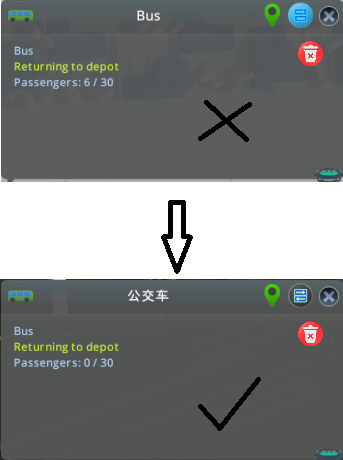
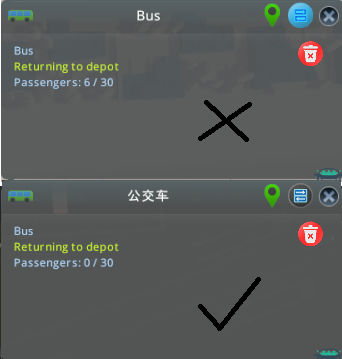
Hotfix for trailingVehicle passenger calculate

diff --git a/TransportVehicleReturnPatch.cs b/TransportVehicleReturnPatch.cs
@@ -45,32 +45,5 @@ namespace TransportVehicleReturnPatch
         {
             debugMode = index;
         }
-
-        public static int GetInsidePassengerCount(ref Vehicle data)
-        {
-            CitizenManager instance = Singleton<CitizenManager>.instance;
-            uint num = data.m_citizenUnits;
-            int num2 = 0;
-            int passengerCount = 0;
-            while (num != 0u)
-            {
-                uint nextUnit = instance.m_units.m_buffer[(int)((UIntPtr)num)].m_nextUnit;
-                for (int i = 0; i < 5; i++)
-                {
-                    uint citizen = instance.m_units.m_buffer[(int)((UIntPtr)num)].GetCitizen(i);
-                    if (citizen != 0u)
-                    {
-                        passengerCount++;
-                    }
-                }
-                num = nextUnit;
-                if (++num2 > 524288)
-                {
-                    CODebugBase<LogChannel>.Error(LogChannel.Core, "Invalid list detected!\n" + Environment.StackTrace);
-                    break;
-                }
-            }
-            return passengerCount;
-        }
     }
 }

diff --git a/Patch/BusAILoadPassengersPatch.cs b/Patch/BusAILoadPassengersPatch.cs
@@ -17,7 +17,7 @@ namespace TransportVehicleReturnPatch.Patch
 			{
 				if (TransportVehicleReturnPatch.rejectPassengerVehicleID[data.m_transportLine] == vehicleID)
 				{
-					int passengerCount = TransportVehicleReturnPatch.GetInsidePassengerCount(ref data);
+					__instance.GetBufferStatus(vehicleID, ref Singleton<VehicleManager>.instance.m_vehicles.m_buffer[vehicleID], out string _, out int passengerCount, out int _);
 					if (passengerCount == 0)
 					{
 						TransportVehicleReturnPatch.rejectPassengerVehicleID[data.m_transportLine] = 0;

diff --git a/Patch/CableCarAILoadPassengersPatch.cs b/Patch/CableCarAILoadPassengersPatch.cs
@@ -18,7 +18,7 @@ namespace TransportVehicleReturnPatch.Patch
 			{
 				if (TransportVehicleReturnPatch.rejectPassengerVehicleID[data.m_transportLine] == vehicleID)
 				{
-					int passengerCount = TransportVehicleReturnPatch.GetInsidePassengerCount(ref data);
+					__instance.GetBufferStatus(vehicleID, ref Singleton<VehicleManager>.instance.m_vehicles.m_buffer[vehicleID], out string _, out int passengerCount, out int _);
 					if (passengerCount == 0)
 					{
 						TransportVehicleReturnPatch.rejectPassengerVehicleID[data.m_transportLine] = 0;

diff --git a/Patch/PassengerBlimpAILoadPassengersPatch.cs b/Patch/PassengerBlimpAILoadPassengersPatch.cs
@@ -18,7 +18,7 @@ namespace TransportVehicleReturnPatch.Patch
 			{
 				if (TransportVehicleReturnPatch.rejectPassengerVehicleID[data.m_transportLine] == vehicleID)
 				{
-					int passengerCount = TransportVehicleReturnPatch.GetInsidePassengerCount(ref data);
+					__instance.GetBufferStatus(vehicleID, ref Singleton<VehicleManager>.instance.m_vehicles.m_buffer[vehicleID], out string _, out int passengerCount, out int _);
 					if (passengerCount == 0)
 					{
 						TransportVehicleReturnPatch.rejectPassengerVehicleID[data.m_transportLine] = 0;

diff --git a/Patch/PassengerFerryAILoadPassengersPatch.cs b/Patch/PassengerFerryAILoadPassengersPatch.cs
@@ -18,7 +18,7 @@ namespace TransportVehicleReturnPatch.Patch
 			{
 				if (TransportVehicleReturnPatch.rejectPassengerVehicleID[data.m_transportLine] == vehicleID)
 				{
-					int passengerCount = TransportVehicleReturnPatch.GetInsidePassengerCount(ref data);
+					__instance.GetBufferStatus(vehicleID, ref Singleton<VehicleManager>.instance.m_vehicles.m_buffer[vehicleID], out string _, out int passengerCount, out int _);
 					if (passengerCount == 0)
 					{
 						TransportVehicleReturnPatch.rejectPassengerVehicleID[data.m_transportLine] = 0;

diff --git a/Patch/PassengerHelicopterAILoadPassengersPatch.cs b/Patch/PassengerHelicopterAILoadPassengersPatch.cs
@@ -18,7 +18,7 @@ namespace TransportVehicleReturnPatch.Patch
 			{
 				if (TransportVehicleReturnPatch.rejectPassengerVehicleID[data.m_transportLine] == vehicleID)
 				{
-					int passengerCount = TransportVehicleReturnPatch.GetInsidePassengerCount(ref data);
+					__instance.GetBufferStatus(vehicleID, ref Singleton<VehicleManager>.instance.m_vehicles.m_buffer[vehicleID], out string _, out int passengerCount, out int _);
 					if (passengerCount == 0)
 					{
 						TransportVehicleReturnPatch.rejectPassengerVehicleID[data.m_transportLine] = 0;

diff --git a/Patch/PassengerPlaneAILoadPassengersPatch.cs b/Patch/PassengerPlaneAILoadPassengersPatch.cs
@@ -18,7 +18,7 @@ namespace TransportVehicleReturnPatch.Patch
 			{
 				if (TransportVehicleReturnPatch.rejectPassengerVehicleID[data.m_transportLine] == vehicleID)
 				{
-					int passengerCount = TransportVehicleReturnPatch.GetInsidePassengerCount(ref data);
+					__instance.GetBufferStatus(vehicleID, ref Singleton<VehicleManager>.instance.m_vehicles.m_buffer[vehicleID], out string _, out int passengerCount, out int _);
 					if (passengerCount == 0)
 					{
 						TransportVehicleReturnPatch.rejectPassengerVehicleID[data.m_transportLine] = 0;

diff --git a/Patch/PassengerShipAILoadPassengersPatch.cs b/Patch/PassengerShipAILoadPassengersPatch.cs
@@ -18,7 +18,7 @@ namespace TransportVehicleReturnPatch.Patch
 			{
 				if (TransportVehicleReturnPatch.rejectPassengerVehicleID[data.m_transportLine] == vehicleID)
 				{
-					int passengerCount = TransportVehicleReturnPatch.GetInsidePassengerCount(ref data);
+					__instance.GetBufferStatus(vehicleID, ref Singleton<VehicleManager>.instance.m_vehicles.m_buffer[vehicleID], out string _, out int passengerCount, out int _);
 					if (passengerCount == 0)
 					{
 						TransportVehicleReturnPatch.rejectPassengerVehicleID[data.m_transportLine] = 0;

diff --git a/Patch/PassengerTrainAILoadPassengersPatch.cs b/Patch/PassengerTrainAILoadPassengersPatch.cs
@@ -18,7 +18,7 @@ namespace TransportVehicleReturnPatch.Patch
 			{
 				if (TransportVehicleReturnPatch.rejectPassengerVehicleID[data.m_transportLine] == vehicleID)
 				{
-					int passengerCount = TransportVehicleReturnPatch.GetInsidePassengerCount(ref data);
+					__instance.GetBufferStatus(vehicleID, ref Singleton<VehicleManager>.instance.m_vehicles.m_buffer[vehicleID], out string _, out int passengerCount, out int _);
 					if (passengerCount == 0)
 					{
 						TransportVehicleReturnPatch.rejectPassengerVehicleID[data.m_transportLine] = 0;

diff --git a/Patch/TrolleybusAILoadPassengersPatch.cs b/Patch/TrolleybusAILoadPassengersPatch.cs
@@ -18,7 +18,7 @@ namespace TransportVehicleReturnPatch.Patch
 			{
 				if (TransportVehicleReturnPatch.rejectPassengerVehicleID[data.m_transportLine] == vehicleID)
 				{
-					int passengerCount = TransportVehicleReturnPatch.GetInsidePassengerCount(ref data);
+					__instance.GetBufferStatus(vehicleID, ref Singleton<VehicleManager>.instance.m_vehicles.m_buffer[vehicleID], out string _, out int passengerCount, out int _);
 					if (passengerCount == 0)
 					{
 						TransportVehicleReturnPatch.rejectPassengerVehicleID[data.m_transportLine] = 0;

diff --git a/Patch/TramAILoadPassengersPatch.cs b/Patch/TramAILoadPassengersPatch.cs
@@ -18,7 +18,7 @@ namespace TransportVehicleReturnPatch.Patch
 			{
 				if (TransportVehicleReturnPatch.rejectPassengerVehicleID[data.m_transportLine] == vehicleID)
 				{
-					int passengerCount = TransportVehicleReturnPatch.GetInsidePassengerCount(ref data);
+					__instance.GetBufferStatus(vehicleID, ref Singleton<VehicleManager>.instance.m_vehicles.m_buffer[vehicleID], out string _, out int passengerCount, out int _);
 					if (passengerCount == 0)
 					{
 						__instance.SetTransportLine(vehicleID, ref data, 0);

diff --git a/Patch/TransportLineGetActiveVehiclePatch.cs b/Patch/TransportLineGetActiveVehiclePatch.cs
@@ -16,7 +16,7 @@ namespace TransportVehicleReturnPatch.Patch
 			if (__result != 0)
 			{
 				var data = Singleton<VehicleManager>.instance.m_vehicles.m_buffer[__result];
-				int passengerCount = TransportVehicleReturnPatch.GetInsidePassengerCount(ref data);
+				data.Info.m_vehicleAI.GetBufferStatus(__result, ref Singleton<VehicleManager>.instance.m_vehicles.m_buffer[__result], out string _, out int passengerCount, out int _);
 				if (data.m_transportLine != 0)
 				{
 					if (passengerCount != 0)
